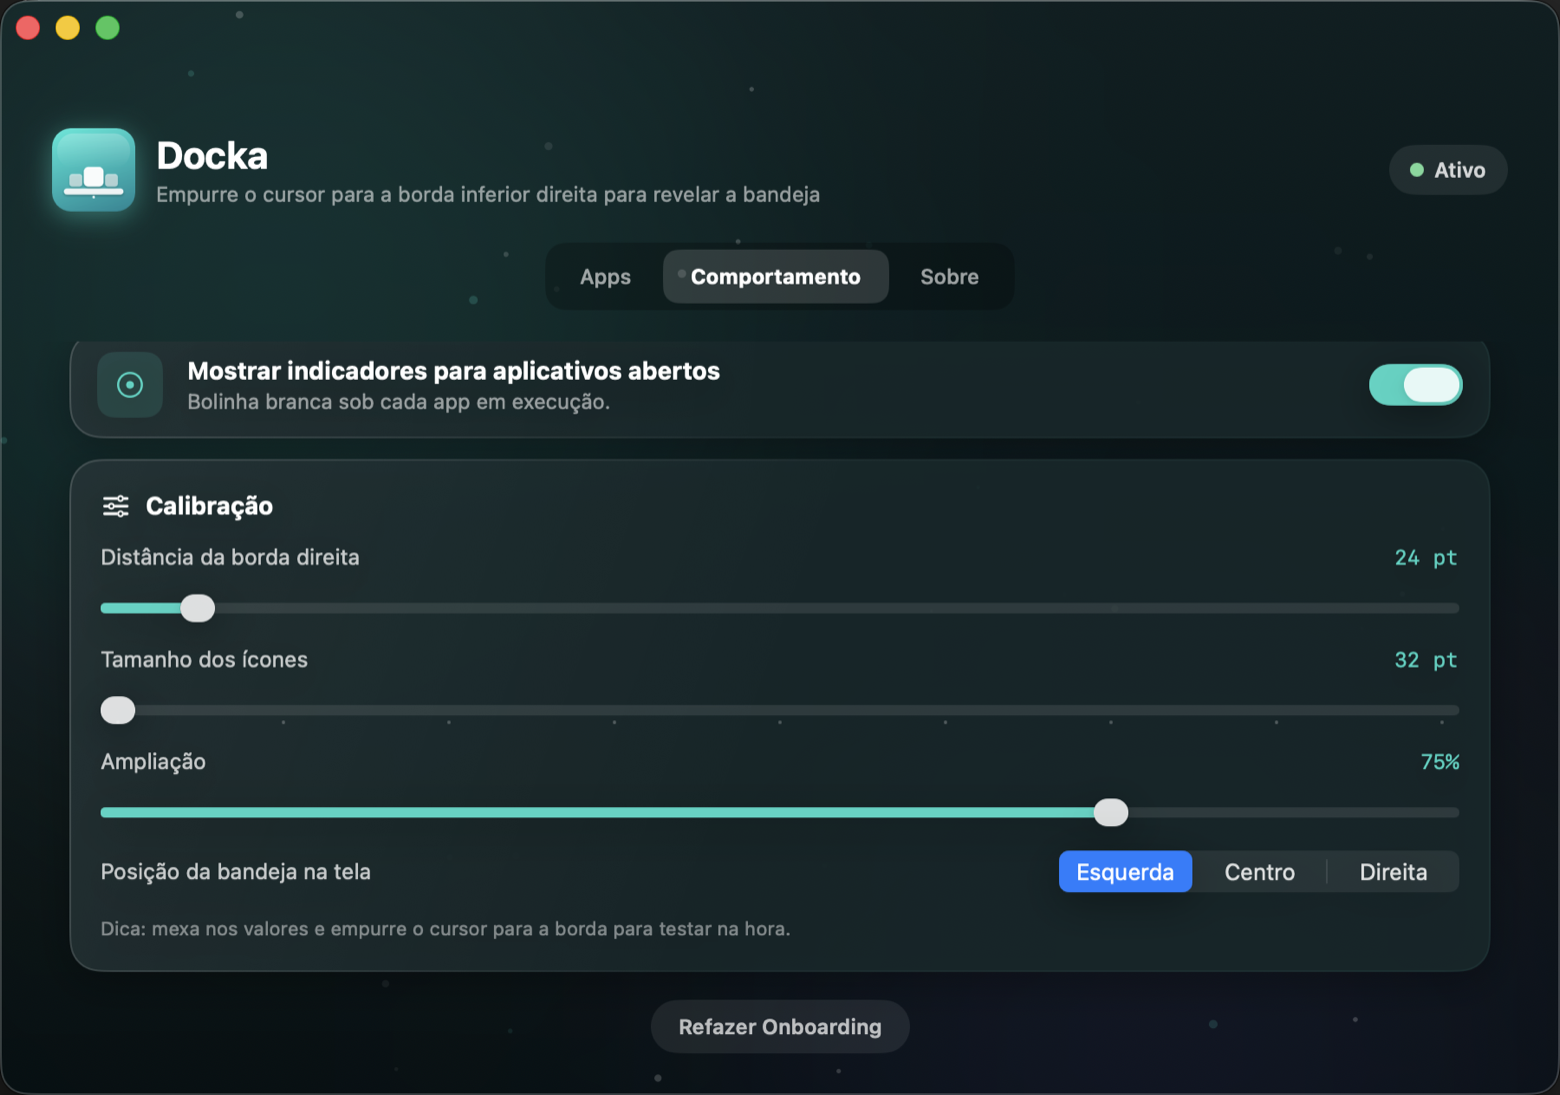
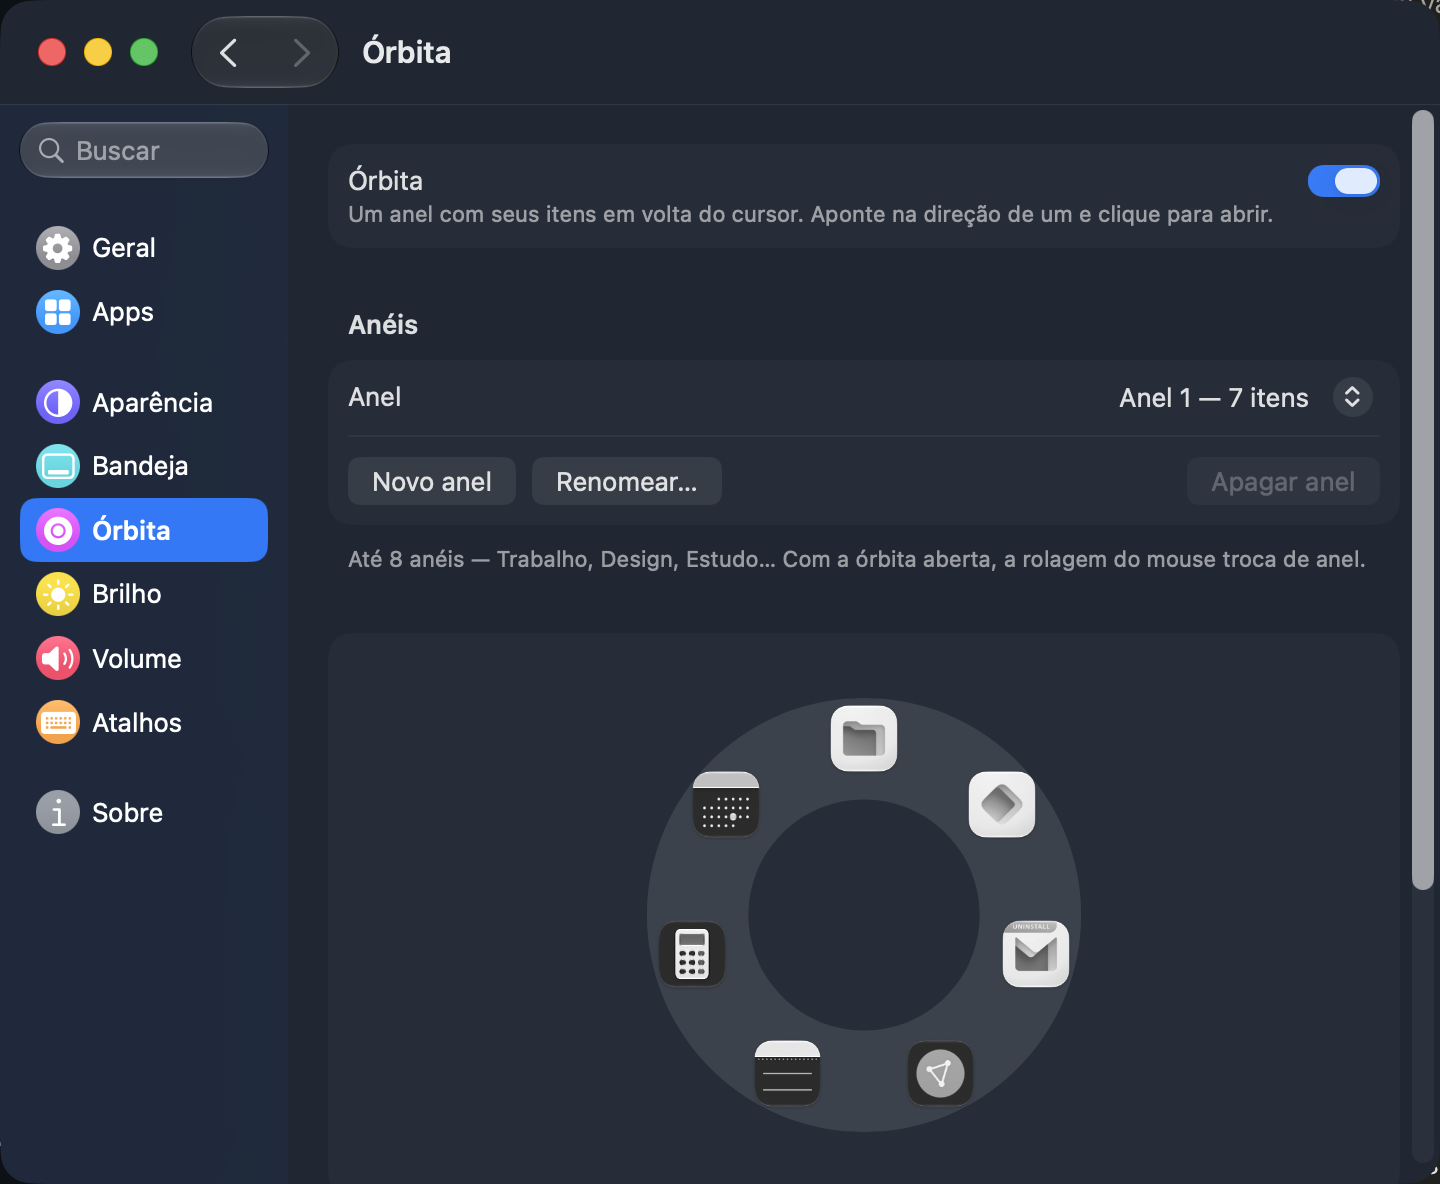
docs(readme): atualiza para a 1.1.0 — órbita, réguas, gerenciador novo
O README descrevia o app de uma versão atrás: gerenciador "de três abas",
curva "gaussiana", 40 testes, atalho único, bandeja só na borda inferior e
vidro "regularMaterial". Atualizado por inteiro:

- descrição de abertura fala do que o app virou (bandejas múltiplas, réguas
  e órbita), não só da bandeja;
- tabela da bandeja ganha a linha de bandejas múltiplas, o pico padrão certo
  (1,5×) e o vidro descrito como vibrância atrás da janela — que é o que é;
- clique-direito menciona o Encerrar; atalhos viram "por ação";
- o gerenciador descrito (e fotografado) como ele é hoje: formato dos
  Ajustes do Sistema, com a seção da Órbita e o editor visual no screenshot;
- árvore da arquitetura com os arquivos reais do Core e da casca;
- tabela de tecnologias ganha DisplayServices, CoreAudio e a logo de site;
- instruções de regeneração apontam para o render_logo.swift e a 1.1.0;
- link para o CHANGELOG na seção de comunidade.

diff --git a/README.md b/README.md
@@ -5,7 +5,7 @@
 <h1 align="center">Docka</h1>
 
 <p align="center">
-  <strong>Uma segunda bandeja de apps para o seu Mac — escondida na borda da tela, a um empurrão de cursor de distância.</strong><br>
+  <strong>Bandejas de apps, réguas de brilho e volume e uma órbita de lançamento — tudo escondido nas bordas da tela, a um empurrão de cursor de distância.</strong><br>
   Leve, 100% SwiftUI e sem pedir nenhuma permissão do sistema.
 </p>
 
@@ -29,9 +29,9 @@
 
 ## O que é o Docka?
 
-O **Docka** é uma bandeja de apps **gratuita e de código aberto** que fica invisível na borda inferior da tela. Empurre o cursor contra a borda e ela desliza para cima, em vidro translúcido, com os apps que você escolheu — magnificação de ícones, balão de nome, indicador de apps abertos e quique ao lançar. Solte o mouse e ela some.
+O **Docka** é um conjunto de superfícies de borda **gratuito e de código aberto**: bandejas de apps que ficam invisíveis nas bordas que você escolher (inferior e laterais), réguas de brilho e volume, e a **Órbita** — um anel de lançamento que abre em volta do cursor. Empurre o cursor contra a borda e a superfície desliza para fora, em vidro translúcido; solte e ela some.
 
-Perfeita para quem mantém o Dock enxuto mas quer um segundo escalão de apps sempre à mão — sem poluir a tela, sem apps de barra de menus pesados.
+Perfeito para quem mantém o Dock enxuto mas quer um segundo escalão de apps, sites e pastas sempre à mão — sem poluir a tela, sem apps de barra de menus pesados.
 
 **Sem dependências. Sem telemetria. Sem permissões de Acessibilidade. Só um empurrão de cursor.**
 
@@ -41,12 +41,13 @@ Perfeita para quem mantém o Dock enxuto mas quer um segundo escalão de apps se
 
 | Recurso | Descrição |
 |---------|-----------|
-| **Revelação pela borda** | Encoste o cursor na borda inferior e a bandeja sobe com mola; afaste e ela se recolhe sozinha |
-| **Magnificação de ícones** | A curva do Dock, parametrizada como no [dockbar](https://github.com/CatsJuice/dockbar): `size`, `gap`, `padding`, `maxScale` e `maxRange`. O ícone sob o cursor cresce até 1,75× a partir da linha de base e empurra os vizinhos; fora do alcance, ninguém se mexe |
+| **Revelação pela borda** | Encoste o cursor na borda da bandeja e ela desliza para fora com mola; afaste e ela se recolhe sozinha |
+| **Várias bandejas** | Quantas quiser, na borda inferior ou nas laterais, cada uma com posição, alinhamento e apps próprios |
+| **Magnificação de ícones** | A curva do Dock, parametrizada como no [dockbar](https://github.com/CatsJuice/dockbar): `size`, `gap`, `padding`, `maxScale` e `maxRange`. O ícone sob o cursor cresce (1,5× por padrão, ajustável) a partir da linha de base e empurra os vizinhos; fora do alcance, ninguém se mexe |
 | **Balão de nome** | O nome do app flutua em uma cápsula de vidro sobre o ícone ampliado |
 | **Indicador de execução** | Bolinha branca sob cada app aberto |
 | **Quique ao lançar** | O ícone quica duas vezes enquanto o app abre, com som opcional |
-| **Vidro real** | `NSPanel` translúcido (`regularMaterial`) acima de qualquer janela, em todos os Spaces e apps em tela cheia |
+| **Vidro real** | Vibrância do sistema com amostragem **atrás da janela** — a mesma do Dock — num `NSPanel` acima de qualquer app, em todos os Spaces e em tela cheia |
 
 ### Interações
 
@@ -54,7 +55,7 @@ Perfeita para quem mantém o Dock enxuto mas quer um segundo escalão de apps se
 |---------|-----------|
 | **Arrastar arquivos** | Solte arquivos do Finder sobre um ícone para abri-los com aquele app |
 | **Reordenar** | Arraste um ícone sobre outro para trocar a ordem |
-| **Clique-direito** | Menu com Abrir, Mostrar no Finder e Remover do Docka |
+| **Clique-direito** | Menu com Abrir, Mostrar no Finder, **Encerrar** (para app aberto, como no Dock) e Remover |
 | **Atalhos globais** | Uma combinação para cada bandeja, para o brilho, para o volume e para abrir os ajustes — todas configuráveis, e o ⇧⌘D de sempre continua sendo o da primeira bandeja. O atalho fixa o painel aberto (não some com o mouse) e o esconde no segundo toque |
 | **Multi-monitor** | A bandeja aparece na tela onde o cursor está |
 
@@ -99,7 +100,7 @@ Réguas verticais que vivem numa lateral da tela e aparecem do mesmo jeito que a
 | **Vive na barra de menus** | Sem ícone no Dock e fora do ⌘Tab; a janela de configurações aparece só quando você pede |
 | **Pressure Zone** | Modo opcional que só revela a bandeja quando você empurra o cursor contra o canto de propósito — evita aberturas acidentais em apps de tela cheia |
 | **Calibração ao vivo** | Distância da borda e tamanho dos ícones ajustáveis por slider, com efeito imediato na bandeja |
-| **Atalho configurável** | Grave a combinação que quiser na aba Comportamento; o Docka avisa se ela já estiver em uso por outro app |
+| **Atalhos por ação** | Grave as combinações na aba Atalhos — uma por bandeja, brilho, volume, órbita e cada anel; conflito entre ações do Docka é apontado pelo nome |
 | **Acessibilidade** | Respeita **Reduzir Movimento** do sistema (sem partículas, sem deslize, sem quique) e rotula a bandeja para o VoiceOver |
 | **Onboarding em 3 passos** | Boas-vindas → escolha de apps (grade com busca) → modo de revelação |
 | **Barra de menus** | Ícone com atalhos rápidos: sons, Pressure Zone, abrir no login, configurações e encerrar |
@@ -107,31 +108,43 @@ Réguas verticais que vivem numa lateral da tela e aparecem do mesmo jeito que a
 ### O gerenciador
 
 <p align="center">
-  <img src="assets/manager.png" width="780" alt="Gerenciador do Docka — escolha de apps, prévia da bandeja e ajustes" />
+  <img src="assets/manager.png" width="780" alt="Gerenciador do Docka — a seção da Órbita, com o editor visual do anel" />
 </p>
 
-Janela única com três abas: **Apps** (prévia da bandeja + grade de todos os apps
-instalados com busca), **Comportamento** (ampliação, posição, indicadores, quique,
-Pressure Zone, sons e calibração ao vivo) e **Sobre**.
+No formato dos **Ajustes do Sistema**: barra lateral com busca e navegação com
+histórico, e uma seção por assunto — **Geral**, **Apps**, **Aparência** (Tom e
+material do painel com prévia simulada), **Bandeja**, **Órbita** (com o editor
+visual do anel), **Brilho**, **Volume**, **Atalhos** e **Sobre**.
 
 ## Arquitetura
 
 ```
 Sources/DockaCore/           — lógica pura, sem SwiftUI e sem AppKit (é o que os testes cobrem)
-├── TrayGeometry.swift       — onde a bandeja fica e quando revelar/esconder
-├── Magnification.swift      — a curva gaussiana de ampliação
-├── Shortcut.swift           — atalho global: validação e exibição (⇧⌘D)
+├── TrayGeometry.swift       — onde cada bandeja fica e quando revelar/esconder
+├── Magnification.swift      — a curva de ampliação do Dock e a ancoragem no cursor
+├── DockConfig.swift         — bandejas múltiplas: borda, alinhamento e apps
+├── Orbita.swift             — geometria do anel: setores, zona morta, quina
+├── AnelDaOrbita.swift       — anéis nomeados e itens (app, site, arquivo, pasta)
+├── Deslizante.swift         — a matemática comum das réguas de brilho e volume
+├── Favicon.swift            — onde procurar a logo de um site (só no próprio site)
+├── AcaoDeAtalho.swift       — uma combinação por ação, com limpeza de órfãos
+├── Shortcut.swift           — atalho global: validação e exibição
 └── AppScanner.swift         — varredura de /Applications, nome do app, reordenação
 
 Sources/Docka/               — a casca: SwiftUI, AppKit e o ciclo de vida
-├── DockaApp.swift           — @main, MenuBarExtra, janela de configurações, abrir no login
-├── Models.swift             — DockaStore (estado + preferências), PinnedApp, cache de ícones
-├── TrayController.swift     — NSPanel da bandeja, polling do cursor
-├── HotKey.swift             — atalho global configurável (Carbon, sem permissões)
+├── DockaApp.swift           — @main, MenuBarExtra, janela de ajustes, abrir no login
+├── Models.swift             — DockaStore (estado + preferências) e migrações
+├── TrayController.swift     — NSPanels das bandejas, polling do cursor, despacho de atalhos
+├── OrbitaController.swift   — o anel no cursor: seleção por direção, rolagem entre anéis
+├── DeslizanteController.swift — as réguas de brilho e volume nas laterais
+├── BrightnessBackend.swift  — DisplayServices: ler/escrever o brilho da tela sob o cursor
+├── VolumeBackend.swift      — CoreAudio: volume e mudo da saída padrão
+├── FaviconStore.swift       — a logo do site, baixada do próprio site e cacheada
+├── ArrastoAppKit.swift      — arrasto e clique que funcionam em painel não-ativante
+├── HotKey.swift             — atalhos globais (Carbon, sem permissões)
 ├── OnboardingView.swift     — fluxo de boas-vindas em 3 passos
-├── SettingsWindowView.swift — abas Apps / Comportamento / Sobre
-├── Effects.swift            — glass cards, fundo aurora, partículas, botões
-└── Assets/                  — logo (gerada por código em scripts/make_logo.swift)
+├── SettingsWindowView.swift — o gerenciador no formato dos Ajustes do Sistema
+└── Assets/                  — logo (renderizada por scripts/render_logo.swift)
 
 Tests/DockaCoreTests/        — swift-testing (@Test/#expect)
 ```
@@ -150,7 +163,10 @@ moram no `DockaCore`, onde `swift test` alcança.
 | Detecção do cursor | Polling leve de `NSEvent.mouseLocation` a 20×/s — dispensa Acessibilidade |
 | Magnificação | Onda de cosseno entre `1` e `maxScale`, limitada por `maxRange`, avaliada como a inclinação média de um seno ao longo da largura do ícone — modelo do [dockbar](https://github.com/CatsJuice/dockbar). Mola interativa por cima |
 | Ícones | `NSWorkspace.shared.icon(forFile:)` em representação de 256 px |
-| Atalho global | `RegisterEventHotKey` (Carbon) — funciona sem permissões; gravação por monitor **local** de eventos, que também dispensa Monitoramento de Entrada |
+| Atalhos globais | `RegisterEventHotKey` (Carbon), um registro por ação — sem permissões; gravação por monitor **local** de eventos |
+| Brilho | `DisplayServices` (privado, resolvido em runtime): a única forma de LER o brilho em Apple Silicon sem Acessibilidade — na tela sob o cursor |
+| Volume | CoreAudio (API pública): volume virtual e mudo da saída padrão, acompanhando troca de fone |
+| Logo de site | `URLSession` efêmera contra o próprio site (favicon/apple-touch-icon) — a única conexão de saída do app |
 | Acessibilidade | `accessibilityReduceMotion` do sistema + rótulos e valores de VoiceOver |
 | Arrastar e soltar | `Transferable` (`.draggable`/`.dropDestination`) com payload de URL |
 | Persistência | `UserDefaults` publicado via `@Published` (caminhos dos apps e preferências) |
@@ -180,12 +196,12 @@ Requisitos: macOS 14+ e as Command Line Tools do Xcode.
 ```bash
 git clone https://github.com/editzffaleta/docka.git
 cd docka
-swift test   # opcional: 40 testes do DockaCore
+swift test   # opcional: 160+ testes do DockaCore
 swift run
 ```
 
 Na primeira execução, o onboarding abre para você escolher os apps.
-Depois, empurre o cursor até a borda inferior direita da tela — ou pressione **⇧⌘D**. ✨
+Depois, empurre o cursor até a borda configurada — ou pressione **⇧⌘D**. ✨
 
 ### Regenerar a logo e o demo
 
@@ -193,11 +209,11 @@ A logo é arte gerada por código, e o GIF de demonstração é capturado do app
 rodando em modo demo (`--demo` fixa a bandeja aberta com um hover simulado):
 
 ```bash
-swift scripts/make_logo.swift                                # logo
-.build/debug/Docka --demo &                                  # bandeja em modo demo
+swift scripts/render_logo.swift Sources/Docka/Assets/logo.png A   # logo (variante A = teal, B = noturna)
+.build/debug/Docka --demo &                                       # bandeja em modo demo
 # capture frames com screencapture -R e depois:
 swift scripts/make_gif.swift <pasta-dos-frames> assets/demo.gif
-./scripts/make_dmg.sh 1.0.0                                  # Docka.app + instalador DMG
+./scripts/make_dmg.sh 1.1.0                                       # Docka.app + instalador DMG
 ```
 
 O `make_dmg.sh` também sabe assinar e notarizar: com uma conta Apple Developer,
@@ -212,6 +228,7 @@ ad-hoc, e o primeiro uso pede clique-direito → Abrir.
   projeto (zero dependências, zero permissões), estilo de código e processo de PR
 - **[Política de Segurança](SECURITY.md)** — como reportar vulnerabilidades em
   privado, prazos de resposta e o modelo de segurança do app
+- **[Registro de mudanças](CHANGELOG.md)** — o que entrou em cada versão
 - **[Issues](https://github.com/editzffaleta/docka/issues)** — bugs e ideias
 
 ## Licença
